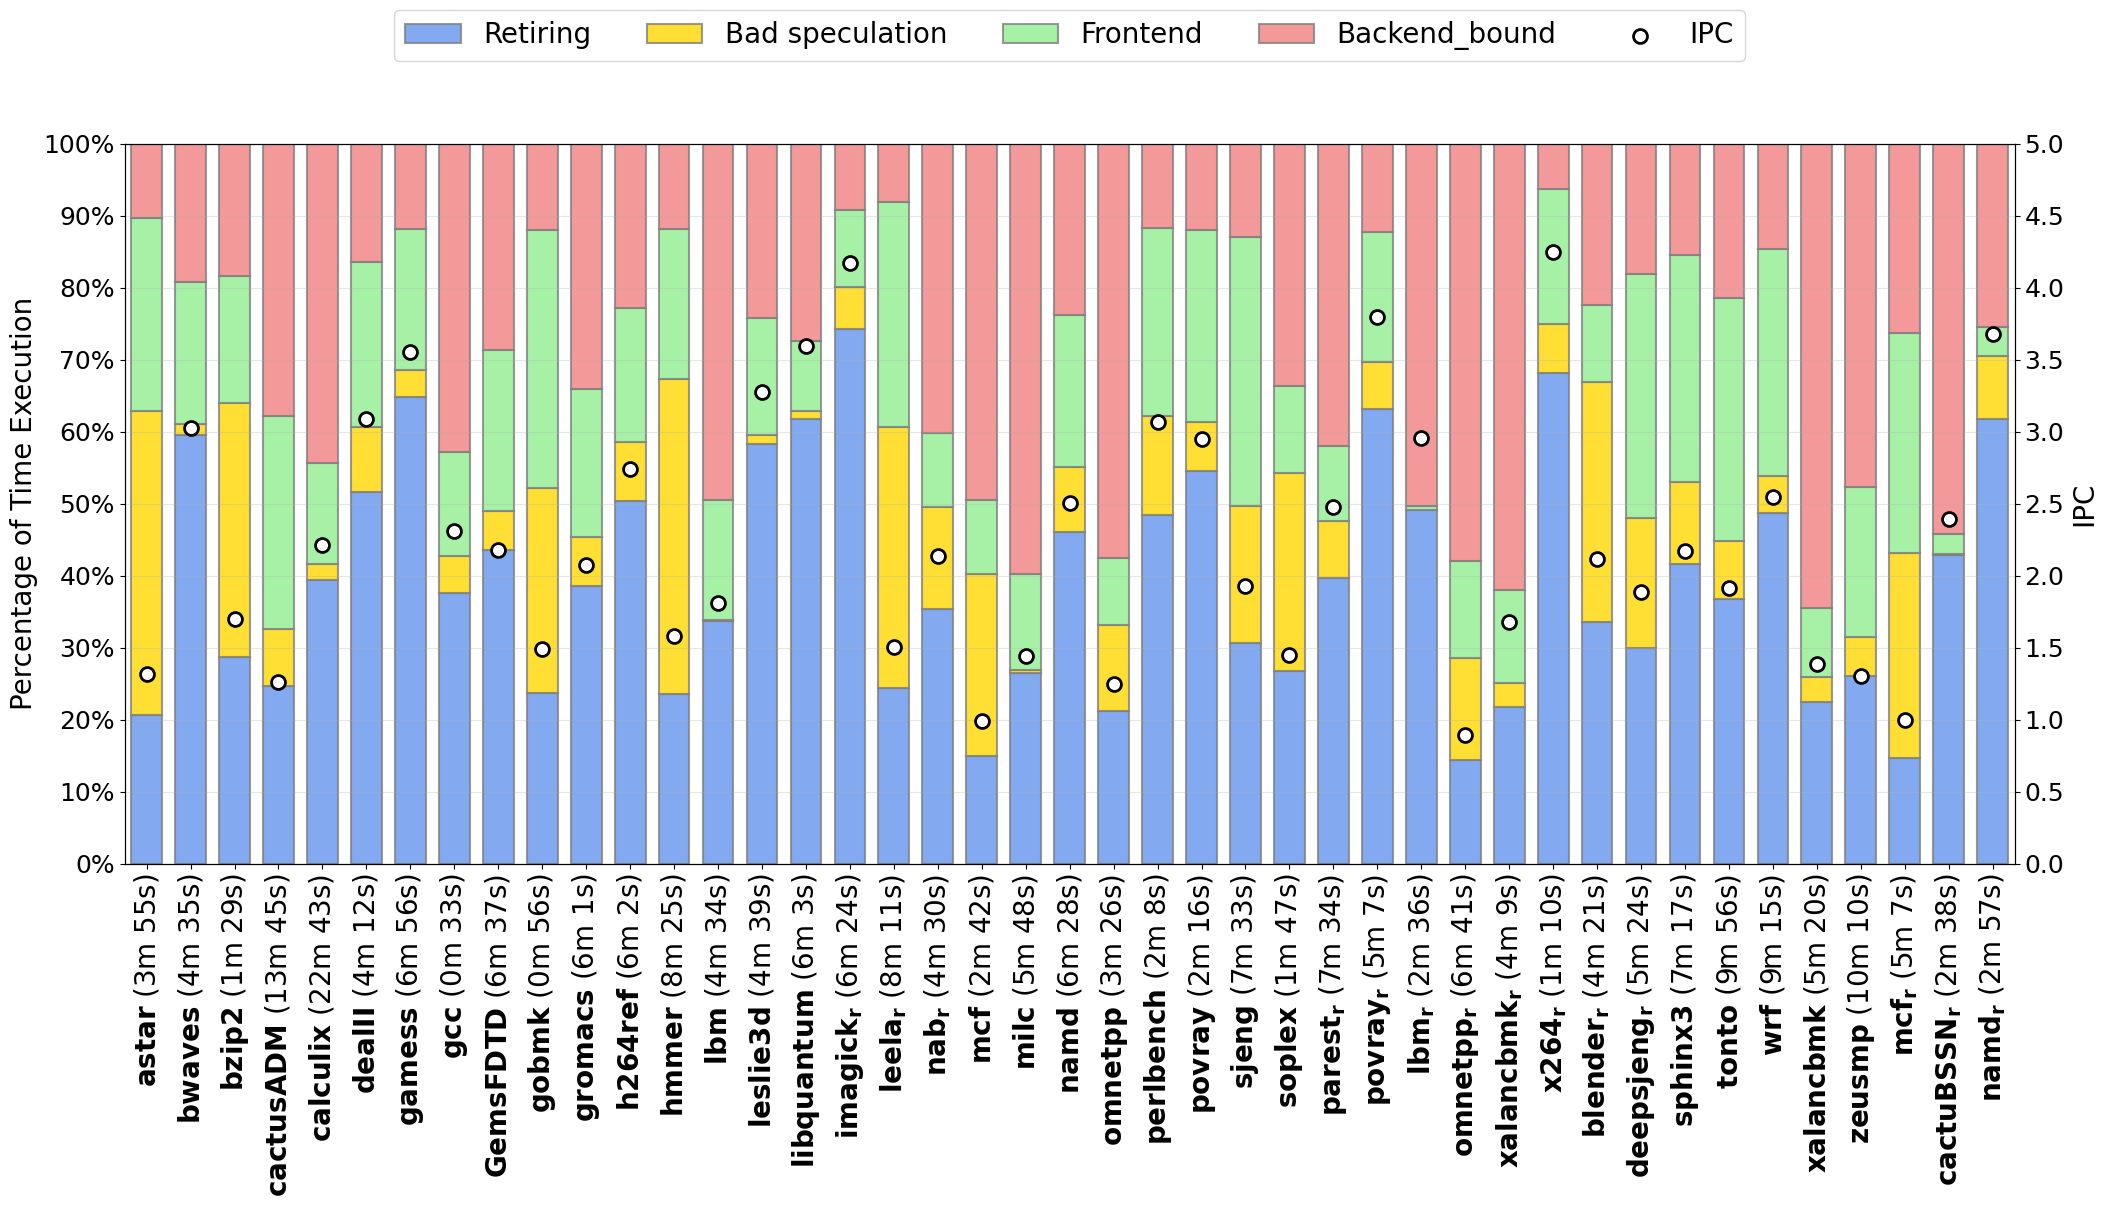
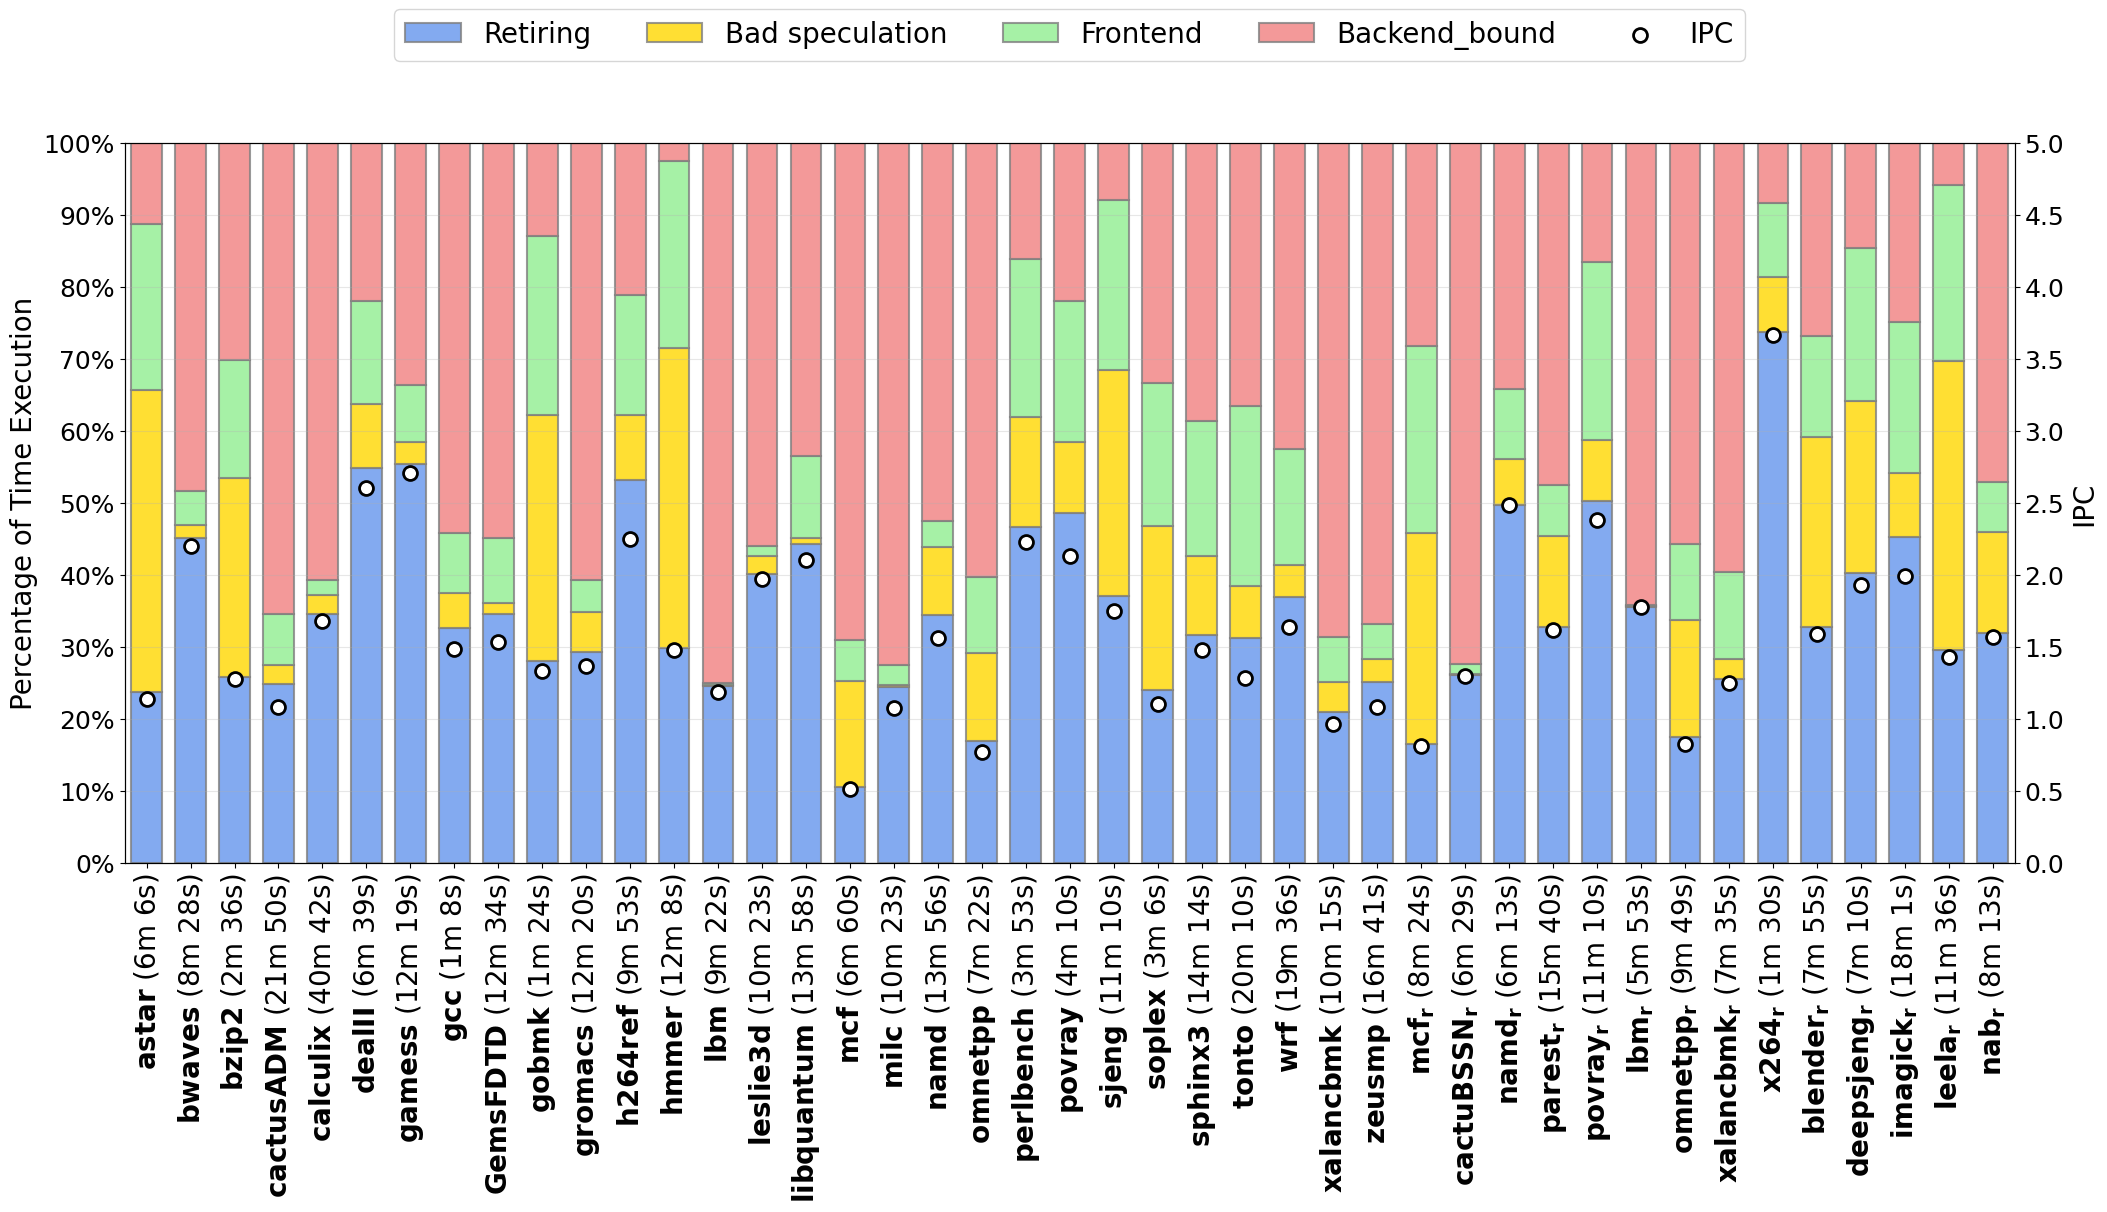
E

diff --git a/graficar_topdown_all.py b/graficar_topdown_all.py
@@ -34,18 +34,18 @@ def main():
             datos = linea.split(";")
             
             # Agrupar en conjuntos de 21
-            for i in range(0, len(datos), 9):
-                if i + 8 < len(datos):
+            for i in range(0, len(datos), 8):
+                if i + 7 < len(datos):
                     app_name = datos[i]
                     cores = datos[i+1]
                     instr = float(datos[i+2])
                     cycles = float(datos[i+3])
                     if cycles == 0:
                         cycles = 1
-                    retiring = float(datos[i+5])
-                    bad_speculation = float(datos[i+6])
-                    frontend = float(datos[i+7])
-                    backend_bound = float(datos[i+8])
+                    retiring = float(datos[i+4])
+                    bad_speculation = float(datos[i+5])
+                    frontend = float(datos[i+6])
+                    backend_bound = float(datos[i+7])
                     #memory_bound = float(datos[i+9])
 
                     ipc = instr / cycles
